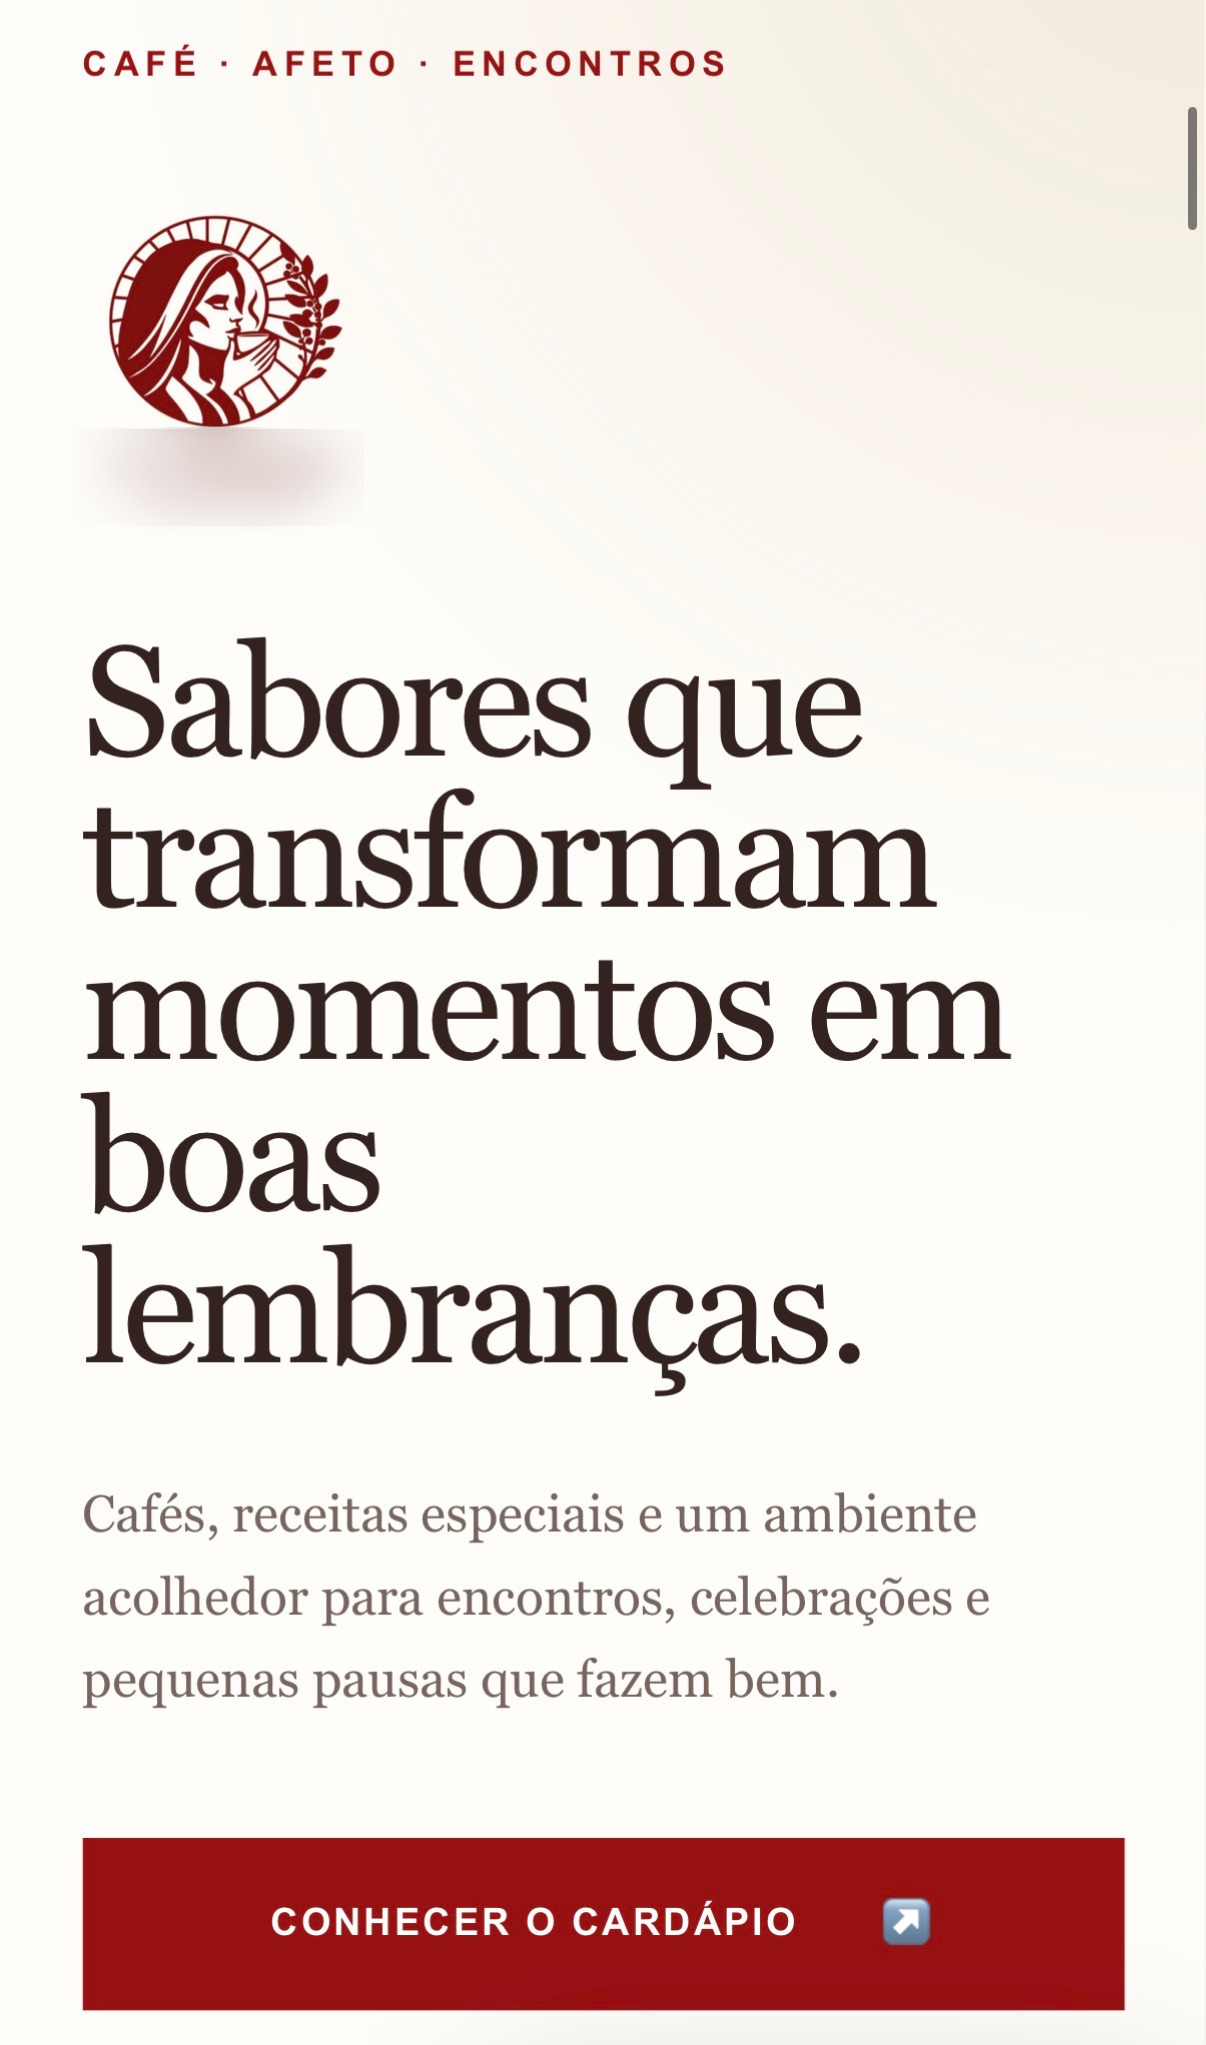
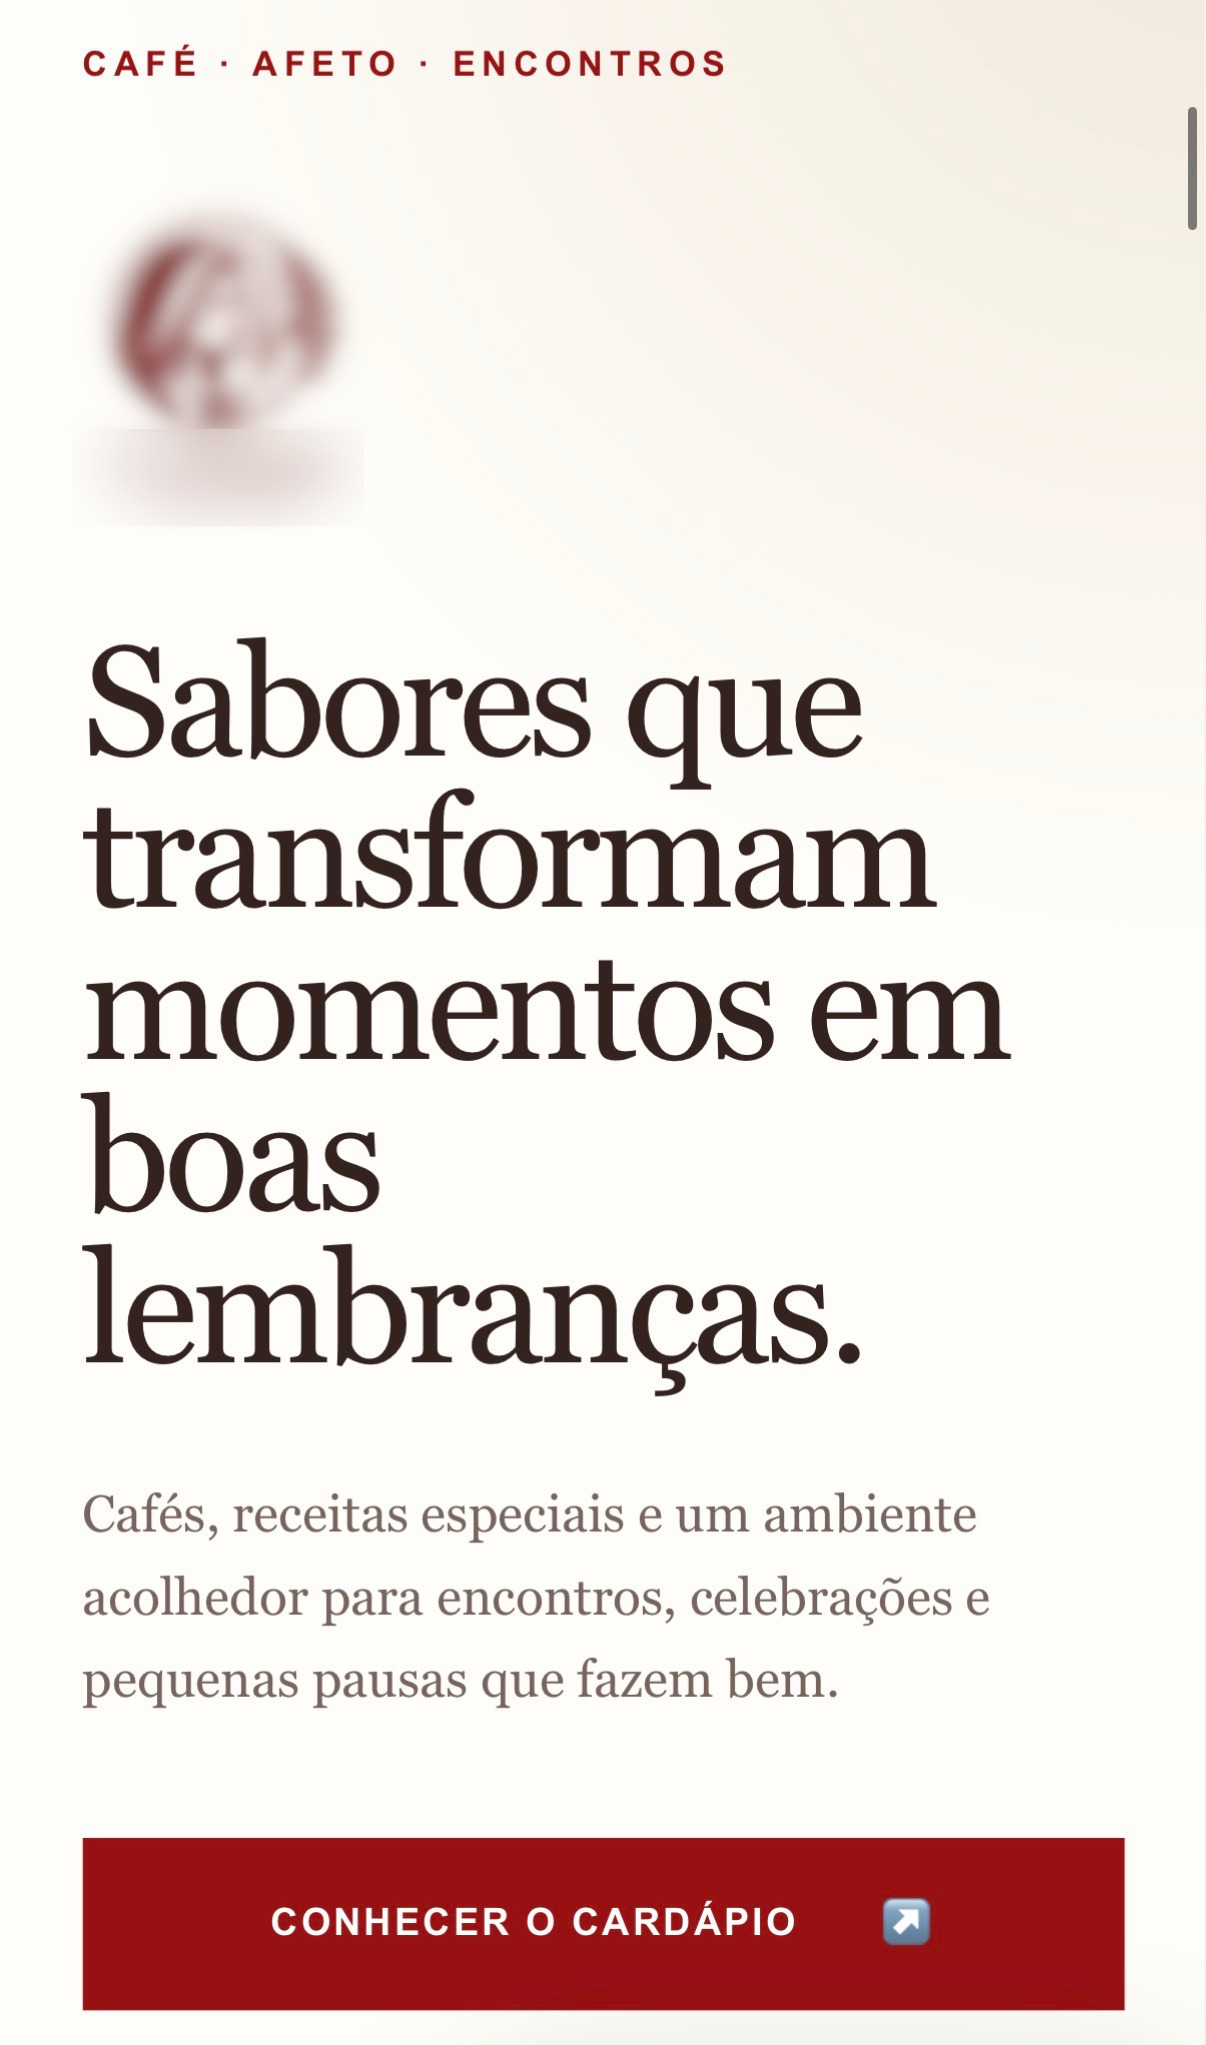
Update cafeteria portfolio images

Changed region(s): [[0.0614, 0.0924, 0.3068, 0.2156]]

diff --git a/src/InternationalLanding.jsx b/src/InternationalLanding.jsx
@@ -16,7 +16,7 @@ const portfolio = [
   { name: "AgriClimate Pro", image: "/agriclimate-pro-poster.jpg", need: "Agricultural teams needed climate information that was easier to use in day-to-day decisions.", solution: "A responsive AgTech experience that organizes climate data into a clear interface.", functionality: "Climate-data presentation and decision-support views.", technology: "Modern responsive web development.", result: "Faster access to practical information across desktop and mobile." },
   { name: "Frasson LLC", image: "/frasson-llc-demo-optimized.jpg", need: "A service business needed a credible online presence that clearly explained its work.", solution: "A focused business website with straightforward service presentation and contact paths.", functionality: "Service pages, responsive layout and direct lead contact.", technology: "Modern frontend web development.", result: "A clearer, more professional way for potential clients to understand and contact the business." },
   { name: "Event QR Code", image: "/event-qr-code-poster.jpg", need: "Event guests needed a frictionless way to share their memories.", solution: "A custom event website that allowed guests to upload photos and videos through table QR codes without installing an application.", functionality: "QR access plus photo and video uploads.", technology: "Custom web application and cloud uploads.", result: "Guests could contribute event media directly from their phones." },
-  { name: "Cafeteria", image: "/cafeteria-demo.jpg", need: "A local café needed a warm digital presence that reflected its atmosphere and encouraged visitors to explore the menu.", solution: "An elegant, mobile-first website with expressive typography, inviting brand colors and a direct menu call to action.", functionality: "Responsive presentation, brand storytelling and menu access.", technology: "Modern responsive web development.", result: "A memorable online experience that helps turn interest into in-person visits." },
+  { name: "Cafeteria", image: "/cafeteria-demo.jpg", nonPortugueseImage: "/cafeteria-demo-en.png", need: "A local café needed a warm digital presence that reflected its atmosphere and encouraged visitors to explore the menu.", solution: "An elegant, mobile-first website with expressive typography, inviting brand colors and a direct menu call to action.", functionality: "Responsive presentation, brand storytelling and menu access.", technology: "Modern responsive web development.", result: "A memorable online experience that helps turn interest into in-person visits." },
 ];
 
 const faq = [
@@ -140,7 +140,7 @@ export function InternationalLanding() {
         <section className="intl-section"><div className={`intl-shell add-ons${marketKey === "brazil" ? " single" : ""}`}><article><p className="eyebrow">{isPortuguese ? "Upgrade opcional" : "Optional upgrade"}</p><h2>English + Portuguese</h2><strong>{isPortuguese ? "a partir de" : "from"} {price(region.bilingual)}</strong><p>{isPortuguese ? "Adicione versões em inglês e português ao seu site. Tradução ou redação podem ser cobradas separadamente, dependendo do volume de conteúdo." : "Add an English and Portuguese version to your website. Translation or copywriting may be charged separately depending on content volume."}</p></article>{marketKey !== "brazil" && <article><p className="eyebrow">Website Care Plan</p><h2>{isPortuguese ? "Manutenção mensal confiável" : "Reliable monthly care"}</h2><strong>{isPortuguese ? "a partir de" : "from"} {price(region.care)}/{isPortuguese ? "mês" : "month"}</strong><ul>{["Hosting monitoring", "Backups", "Security updates", "Dependency updates", "Uptime monitoring", "Up to 30 minutes of minor content changes per month", "Email support"].map((item) => <li key={item}><Check size={16} />{item}</li>)}</ul><p>{isPortuguese ? "Os custos de hospedagem são cobrados separadamente. O plano não inclui suporte ou alterações ilimitadas." : "Hosting costs are charged separately. The plan does not include unlimited support or unlimited changes."}</p></article>}</div></section>
         {marketKey === "brazil" && <BrazilWebsiteCare price={price} />}
 
-        <Portfolio />
+        <Portfolio isPortuguese={isPortuguese} />
         <Process />
         <Faq />
         <QuoteForm region={region} marketKey={marketKey} setMarketKey={setMarketKey} landingPage={landingPage} selectedPackage={selectedPackage} setSelectedPackage={setSelectedPackage} isPortuguese={isPortuguese} />
@@ -151,7 +151,7 @@ export function InternationalLanding() {
   );
 }
 
-function Portfolio() { return <section className="intl-section alt" id="portfolio"><div className="intl-shell"><div className="intl-heading"><p className="eyebrow">Real work</p><h2>Websites built around practical needs.</h2><p>Clear outcomes for real businesses and events—not just technical specifications.</p></div><div className="case-grid">{portfolio.map((project) => <article key={project.name}><img src={project.image} alt={`${project.name} project preview`} loading="lazy" /><div><h3>{project.name}</h3><p><strong>Need:</strong> {project.need}</p><p><strong>Solution:</strong> {project.solution}</p><p><strong>Functionality:</strong> {project.functionality}</p><p><strong>Technology:</strong> {project.technology}</p><p><strong>Benefit:</strong> {project.result}</p></div></article>)}</div></div></section>; }
+function Portfolio({ isPortuguese }) { return <section className="intl-section alt" id="portfolio"><div className="intl-shell"><div className="intl-heading"><p className="eyebrow">Real work</p><h2>Websites built around practical needs.</h2><p>Clear outcomes for real businesses and events—not just technical specifications.</p></div><div className="case-grid">{portfolio.map((project) => <article key={project.name}><img src={isPortuguese ? project.image : project.nonPortugueseImage || project.image} alt={`${project.name} project preview`} loading="lazy" /><div><h3>{project.name}</h3><p><strong>Need:</strong> {project.need}</p><p><strong>Solution:</strong> {project.solution}</p><p><strong>Functionality:</strong> {project.functionality}</p><p><strong>Technology:</strong> {project.technology}</p><p><strong>Benefit:</strong> {project.result}</p></div></article>)}</div></div></section>; }
 
 function BrazilWebsiteCare({ price }) {
   return <section className="intl-section care-section" id="website-care"><div className="intl-shell">

diff --git a/src/main.jsx b/src/main.jsx
@@ -27,7 +27,7 @@ const projectMedia = [
   { media: "/agriclimate-pro-demo.mp4", poster: "/agriclimate-pro-poster.jpg", kind: "video" },
   { media: "/frasson-llc-demo-optimized.jpg", kind: "image" },
   { media: "/event-qr-code-demo.mp4", poster: "/event-qr-code-poster.jpg", kind: "video" },
-  { media: "/cafeteria-demo.jpg", kind: "image" },
+  { media: "/cafeteria-demo.jpg", nonPortugueseMedia: "/cafeteria-demo-en.png", kind: "image" },
 ];
 
 const contactLinks = {
@@ -107,7 +107,7 @@ function App() {
         <TopBanner />
         <Hero copy={copy} />
         <Services copy={copy} onSelectService={setSelectedService} />
-        <Portfolio copy={copy} />
+        <Portfolio copy={copy} language={language} />
         <Company copy={copy} />
         <Contact copy={copy} selectedService={selectedService} onSelectService={setSelectedService} />
       </main>
@@ -283,8 +283,15 @@ function Services({ copy, onSelectService }) {
   );
 }
 
-function Portfolio({ copy }) {
-  const projects = copy.projects.map((project, index) => ({ ...project, ...projectMedia[index] }));
+function Portfolio({ copy, language }) {
+  const projects = copy.projects.map((project, index) => {
+    const projectAssets = projectMedia[index];
+    return {
+      ...project,
+      ...projectAssets,
+      media: language === "pt-BR" ? projectAssets.media : projectAssets.nonPortugueseMedia || projectAssets.media,
+    };
+  });
   return (
     <section className="section portfolio-section" id="portfolio" aria-labelledby="portfolio-title">
       <div className="shell">
